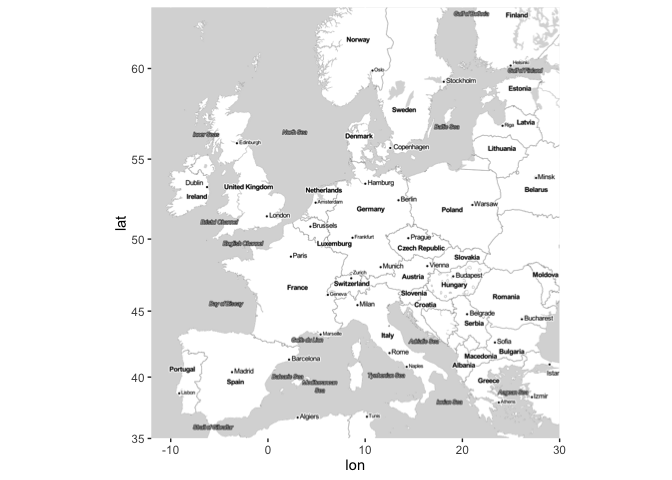
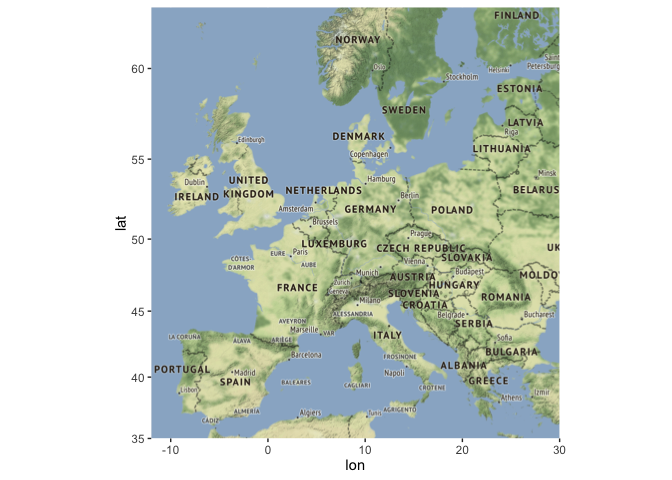
recompiling README

diff --git a/README.md b/README.md
@@ -23,18 +23,32 @@ ggmap(map, extent = "device")
 Use `qmplot()` in the same way you'd use `qplot()`, but with a map automatically added in the background:
 
 ``` r
-downtown <- subset(crime,
-  -95.39681 <= lon & lon <= -95.34188 &
+library(dplyr)
+
+# only violent crimes
+violent_crimes <- filter(crime, 
+  offense != "auto theft", offense != "theft", offense != "burglary"
+)
+
+# rank violent crimes
+violent_crimes$offense <- factor(
+  violent_crimes$offense,
+  levels = c("robbery", "aggravated assault", "rape", "murder")
+)
+
+# restrict to downtown
+violent_crimes <- filter(violent_crimes,
+  -95.39681 <= lon & lon <= -95.34188,
    29.73631 <= lat & lat <=  29.78400
 )
 
-qmplot(lon, lat, data = downtown, maptype = "toner-background", color = I("red"))
+qmplot(lon, lat, data = violent_crimes, maptype = "toner-lite", color = I("red"))
 ```
 
 ![](figures/README-qmplot-1.png)
 
 ``` r
-qmplot(lon, lat, data = downtown, maptype = "toner-lite", geom = "density2d", color = I("red"))
+qmplot(lon, lat, data = violent_crimes, maptype = "toner-lite", geom = "density2d", color = I("red"))
 ```
 
 ![](figures/README-qmplot-2.png)
@@ -42,11 +56,11 @@ qmplot(lon, lat, data = downtown, maptype = "toner-lite", geom = "density2d", co
 Since **ggmap**'s built on top of **ggplot2**, all your usual **ggplot2** stuff (geoms, polishing, etc.) will work, and there are some unique graphing perks **ggmap** brings to the table, too.
 
 ``` r
-robberies <- subset(downtown, offense == "robbery")
+robberies <- violent_crimes %>% filter(offense == "robbery")
 
-qmplot(lon, lat, data = downtown, geom = "blank", zoom = 15, maptype = "toner-background", darken = .7) +
+qmplot(lon, lat, data = violent_crimes, geom = "blank", zoom = 15, maptype = "toner-background", darken = .7, legend = "topleft") +
   stat_density_2d(aes(fill = ..level..), geom = "polygon", alpha = .3, color = NA) +
-  scale_fill_gradient2("Robbery\nPropensity", low = "white", mid = "yellow", high = "red", midpoint = 1500)
+  scale_fill_gradient2("Robbery\nPropensity", low = "white", mid = "yellow", high = "red", midpoint = 650)
 ```
 
 ![](figures/README-styling-1.png)
@@ -54,7 +68,7 @@ qmplot(lon, lat, data = downtown, geom = "blank", zoom = 15, maptype = "toner-ba
 Faceting works, too:
 
 ``` r
-qmplot(lon, lat, data = downtown, maptype = "toner-background", color = offense) + 
+qmplot(lon, lat, data = violent_crimes, maptype = "toner-background", color = offense) + 
   facet_wrap(~ offense)
 ```
 
@@ -64,11 +78,16 @@ For convenience, here's a map of Europe:
 
 ``` r
 europe <- c(left = -12, bottom = 35, right = 30, top = 63)
-map <- get_stamenmap(europe, zoom = 5, maptype = "toner-lite")
-ggmap(map)
+get_stamenmap(europe, zoom = 5) %>% ggmap()
 ```
 
 ![](figures/README-europe-1.png)
+
+``` r
+get_stamenmap(europe, zoom = 5, maptype = "toner-lite") %>% ggmap()
+```
+
+![](figures/README-europe-2.png)
 
 Installation
 ------------
